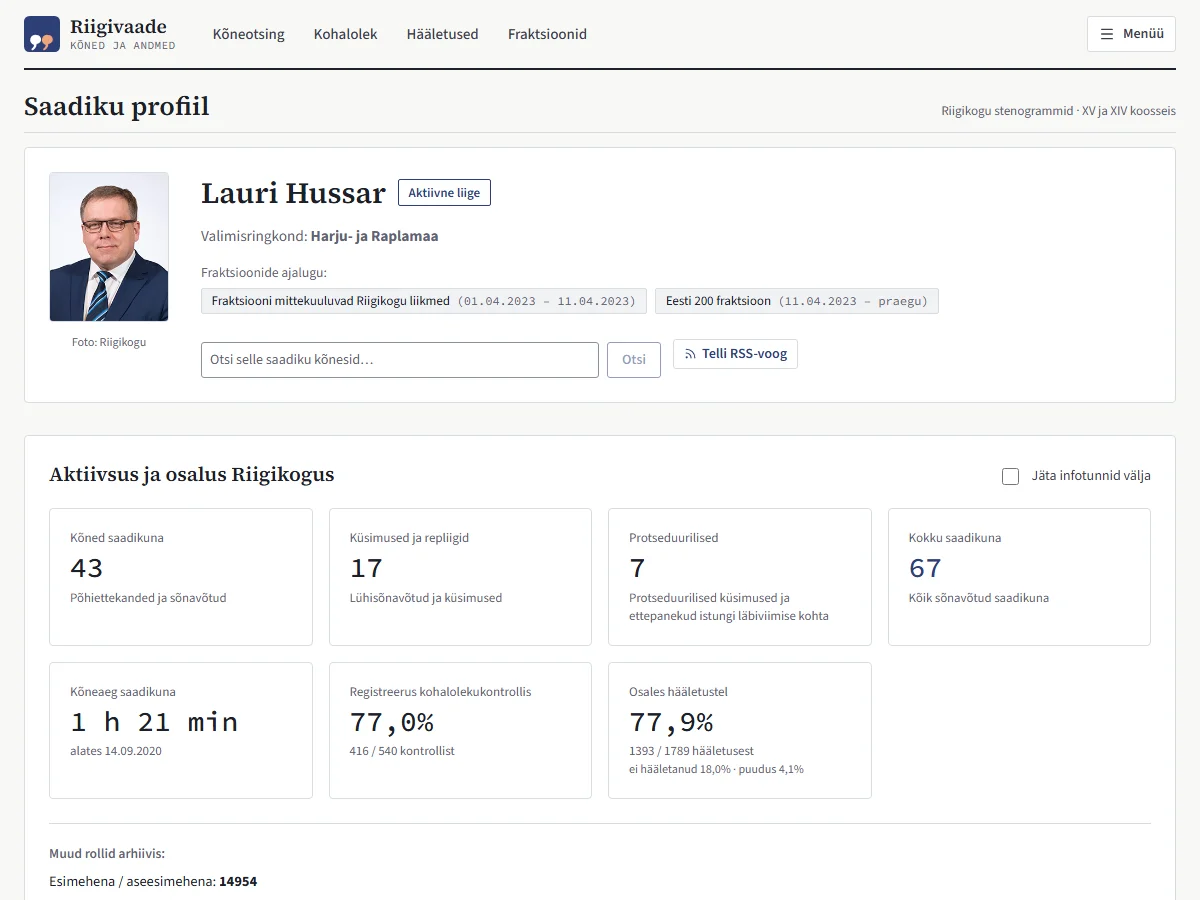
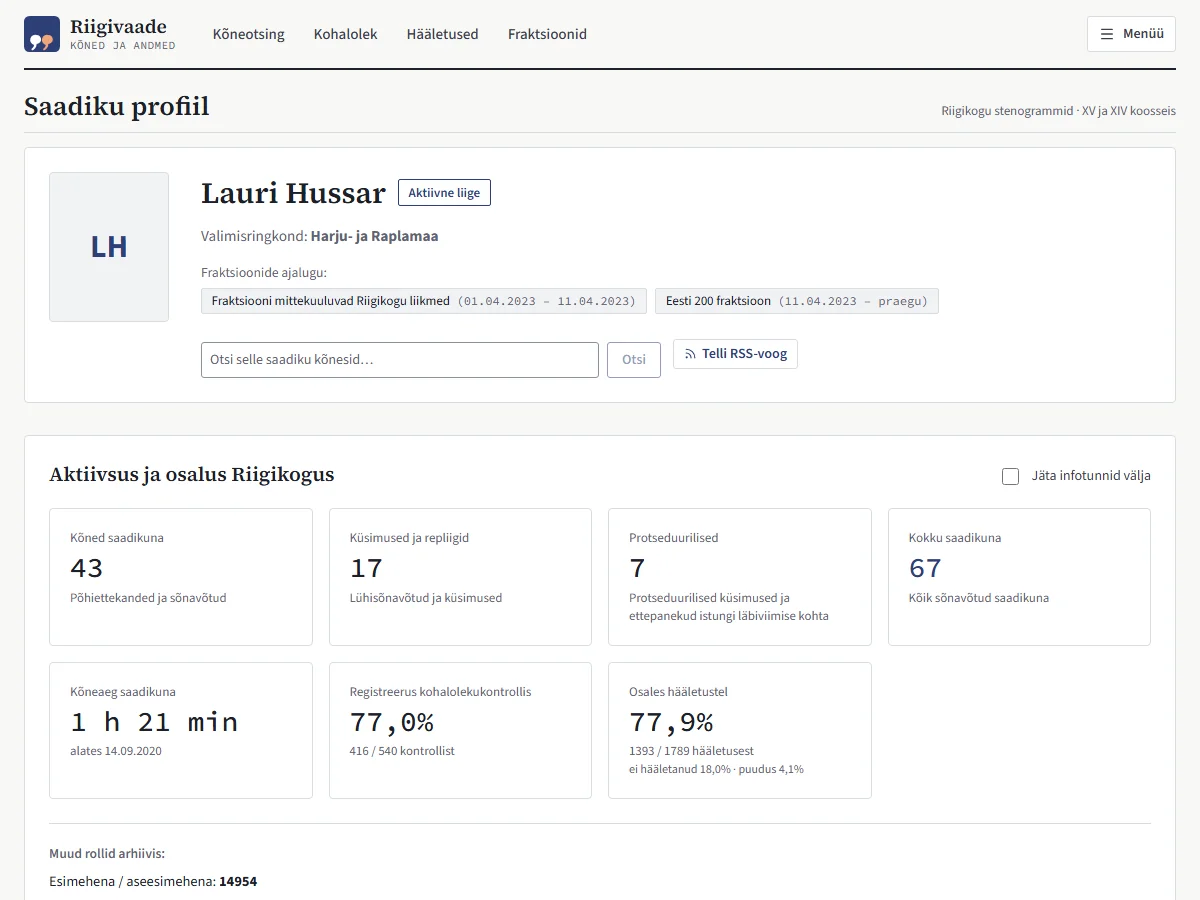
Credit the Riigikogu data in the README, license the screenshots under CC BY-SA and leave member photos out

Changed region(s): [[0.0308, 0.1867, 0.1542, 0.4044]]

diff --git a/README.md b/README.md
@@ -10,7 +10,7 @@
 
 ## What's on the site
 
-Each screenshot opens the same page on the live site.
+Each screenshot opens the same page on the live site. The screenshots show data of the Riigikogu ([api.riigikogu.ee](https://api.riigikogu.ee), CC BY-SA 3.0) and are shared under the same licence; member photos are left out, because the Riigikogu photo terms do not allow passing on copies.
 
 ### Speech search
 
@@ -125,4 +125,4 @@ riigikogu-stenogram-search/
 
 ## License
 
-This project is open source and available under the [MIT License](LICENSE).
+The code is available under the [MIT License](LICENSE). The data and the screenshots in `docs/images/` are under [CC BY-SA 3.0](https://creativecommons.org/licenses/by-sa/3.0/), source: Riigikogu.

diff --git a/README.et.md b/README.et.md
@@ -10,7 +10,7 @@
 
 ## Mis lehel on
 
-Iga pilt avab sama lehe päris saidil.
+Iga pilt avab sama lehe päris saidil. Piltidel on Riigikogu andmed ([api.riigikogu.ee](https://api.riigikogu.ee), CC BY-SA 3.0) ja pildid on sama litsentsi all; saadikute fotosid piltidel pole, sest Riigikogu fotode kasutustingimused ei luba koopiaid edasi anda.
 
 ### Kõneotsing
 
@@ -127,4 +127,4 @@ riigikogu-stenogram-search/
 
 ## Litsents
 
-See projekt on avatud lähtekoodiga ja litsentseeritud [MIT litsentsi](LICENSE) alusel.
+Kood on [MIT litsentsi](LICENSE) all. Andmed ja kaustas `docs/images/` olevad pildid on [CC BY-SA 3.0](https://creativecommons.org/licenses/by-sa/3.0/deed.et) litsentsi all, allikas: Riigikogu.
